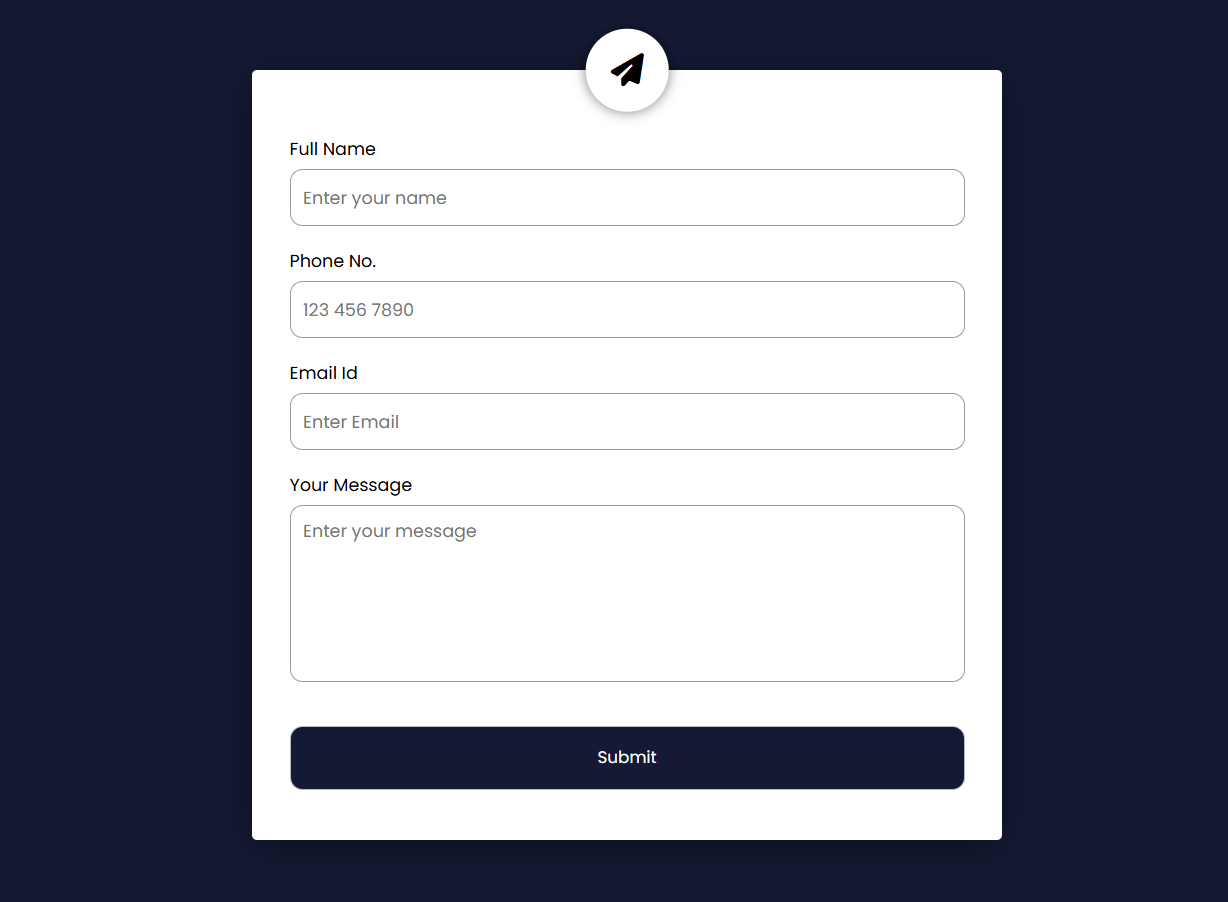
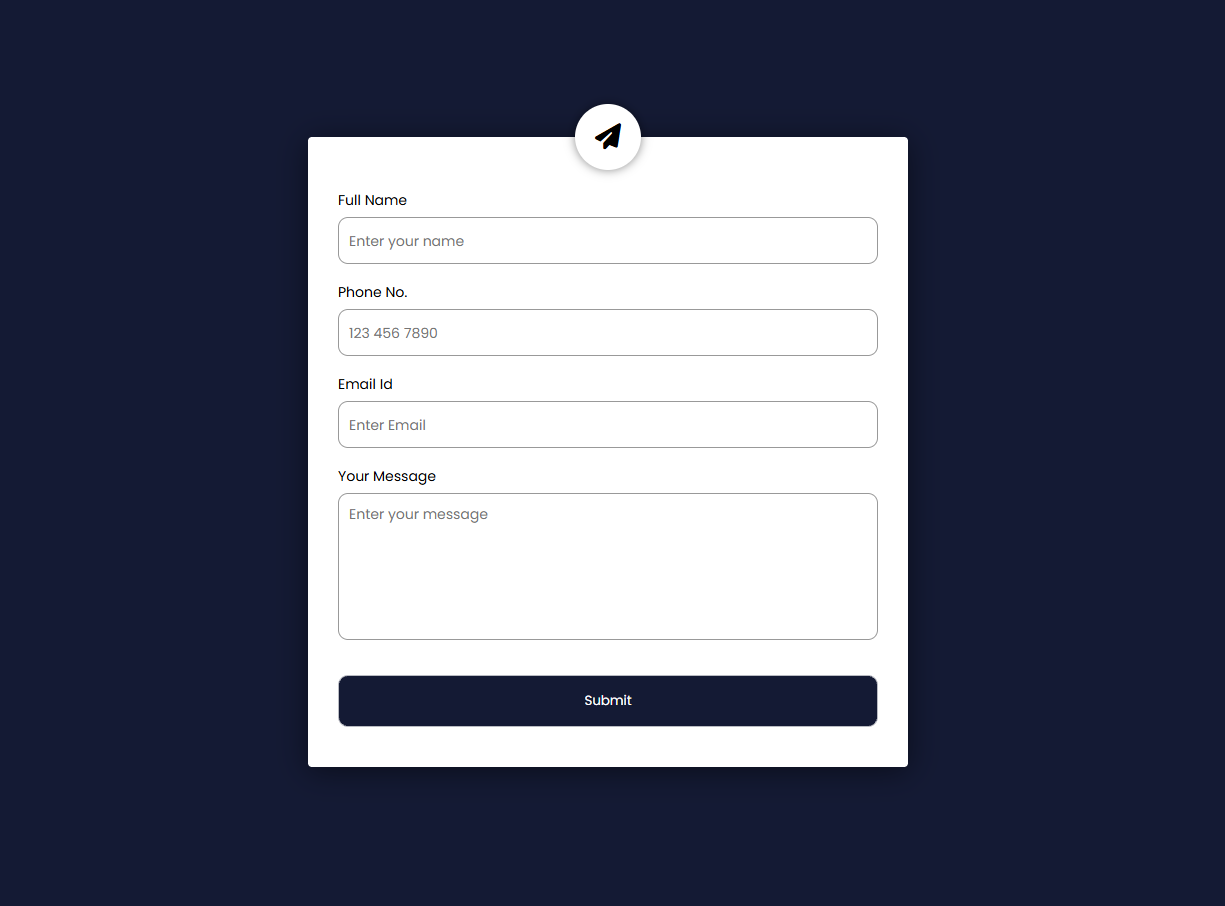
feat: fixed responsiveness, formatting and image of new contribution of word counter

Changed region(s): [[0.1861, 0.031, 0.8376, 0.9313]]

diff --git a/page/Project.html b/page/Project.html
@@ -45,25 +45,6 @@
         <div class="project-grid">
             <div class="project-card reveal">
                 <div class="card-image">
-                    <img src="/images/Projects/word-counter.svg" alt="Word Counter">
-                </div>
-                <div class="card-content">
-                    <h3>Word Counter</h3>
-                    <div class="button-group">
-                        <a target="_blank"
-                           href="#"
-                           class="icon-btn" title="View Code">
-                            <i class="fa-solid fa-code"></i>
-                        </a>
-                        <a target="_blank" href="/Projects/Word%20Counter/index.html" class="icon-btn" title="Live Demo">
-                            <i class="fa-solid fa-up-right-from-square"></i>
-                        </a>
-                    </div>
-                </div>
-            </div>
-
-            <div class="project-card reveal">
-                <div class="card-image">
                     <img src="/images/Projects/Calculator.png" alt="Calculator">
                 </div>
                 <div class="card-content">
@@ -592,6 +573,29 @@
                         </a>
 
                         <a target="_blank" href="/Projects/Etch-a-Sketch/index.html" class="icon-btn" title="Live Demo">
+                            <i class="fa-solid fa-up-right-from-square"></i>
+                        </a>
+                    </div>
+                </div>
+            </div>
+
+            <div class="project-card reveal">
+                <div class="card-image">
+                    <img src="/images/Projects/word-counter.png" alt="Word Counter">
+                </div>
+
+                <div class="card-content">
+                    <h3>Word Counter</h3>
+
+                    <div class="button-group">
+                        <a target="_blank"
+                            href="https://github.com/TonyStark-19/HTML-CSS-JS-Projects/blob/main/Projects/Word%20Counter"
+                            class="icon-btn" title="View Code">
+                            <i class="fa-solid fa-code"></i>
+                        </a>
+
+                        <a target="_blank" href="/Projects/Word%20Counter/index.html" class="icon-btn"
+                            title="Live Demo">
                             <i class="fa-solid fa-up-right-from-square"></i>
                         </a>
                     </div>

diff --git a/Projects/Word Counter/CSS/style.css b/Projects/Word Counter/CSS/style.css
@@ -4,7 +4,9 @@
   background: #09090b;
 }
 
-* { box-sizing: border-box; }
+* {
+  box-sizing: border-box;
+}
 
 body {
   min-height: 100vh;
@@ -54,8 +56,13 @@ textarea {
   outline: none;
 }
 
-textarea::placeholder { color: #777780; }
-textarea:focus { border-color: #898991; }
+textarea::placeholder {
+  color: #777780;
+}
+
+textarea:focus {
+  border-color: #898991;
+}
 
 .results {
   display: grid;
@@ -71,9 +78,20 @@ textarea:focus { border-color: #898991; }
   border-left: 1px solid #333338;
 }
 
-.stat:first-child { padding-left: 0; border-left: 0; }
-.stat strong { font-size: 1.8rem; font-variant-numeric: tabular-nums; }
-.stat span { color: #a1a1aa; font-size: 0.85rem; }
+.stat:first-child {
+  padding-left: 0;
+  border-left: 0;
+}
+
+.stat strong {
+  font-size: 1.8rem;
+  font-variant-numeric: tabular-nums;
+}
+
+.stat span {
+  color: #a1a1aa;
+  font-size: 0.85rem;
+}
 
 button {
   padding: 12px 18px;
@@ -85,11 +103,39 @@ button {
   cursor: pointer;
 }
 
-button:hover { background: #333338; }
-button:focus-visible { outline: 2px solid #a1a1aa; outline-offset: 3px; }
+button:hover {
+  background: #333338;
+}
+
+button:focus-visible {
+  outline: 2px solid #a1a1aa;
+  outline-offset: 3px;
+}
 
 @media (max-width: 480px) {
-  .stat { padding-left: 12px; }
-  .stat strong { font-size: 1.45rem; }
-  .stat span { font-size: 0.75rem; }
+
+  .stat {
+    padding-left: 12px;
+  }
+
+  .stat strong {
+    font-size: 1.45rem;
+  }
+
+  .stat span {
+    font-size: 0.75rem;
+  }
+}
+
+@media (max-width: 400px) {
+
+  .results {
+    grid-template-columns: 1fr;
+    gap: 20px;
+  }
+
+  .stat {
+    border: none;
+    padding-left: 0;
+  }
 }

diff --git a/Projects/Word Counter/index.html b/Projects/Word Counter/index.html
@@ -1,13 +1,15 @@
 <!DOCTYPE html>
 <html lang="en">
+
 <head>
   <meta charset="UTF-8">
   <meta name="viewport" content="width=device-width, initial-scale=1.0">
   <meta name="description" content="A simple word and character counter.">
   <title>Word Counter</title>
+  <!-- custom styles -->
   <link rel="stylesheet" href="CSS/style.css">
-  <script src="JS/script.js" defer></script>
 </head>
+
 <body>
   <main class="counter">
     <h1>Word Counter</h1>
@@ -21,10 +23,12 @@
         <strong id="word-count">0</strong>
         <span>Words</span>
       </div>
+
       <div class="stat">
         <strong id="character-count">0</strong>
         <span>Characters</span>
       </div>
+
       <div class="stat">
         <strong id="character-no-space-count">0</strong>
         <span>No spaces</span>
@@ -33,5 +37,10 @@
 
     <button type="button" id="clear-button">Clear text</button>
   </main>
+
+  <!-- custom JavaScript -->
+  <script src="JS/script.js" defer></script>
+
 </body>
+
 </html>

diff --git a/Projects/Word Counter/JS/script.js b/Projects/Word Counter/JS/script.js
@@ -1,9 +1,11 @@
+// get references to the DOM elements
 const textInput = document.querySelector('#text-input');
 const wordCount = document.querySelector('#word-count');
 const characterCount = document.querySelector('#character-count');
 const noSpaceCount = document.querySelector('#character-no-space-count');
 const clearButton = document.querySelector('#clear-button');
 
+// function to update the counts
 function updateCounts() {
   const text = textInput.value;
   const words = text.trim();
@@ -13,11 +15,15 @@ function updateCounts() {
   noSpaceCount.textContent = Array.from(text.replace(/\s/gu, '')).length;
 }
 
+// add event listeners
 textInput.addEventListener('input', updateCounts);
+
+// clear button functionality
 clearButton.addEventListener('click', () => {
   textInput.value = '';
   updateCounts();
   textInput.focus();
 });
 
+// initialize counts on page load
 updateCounts();
